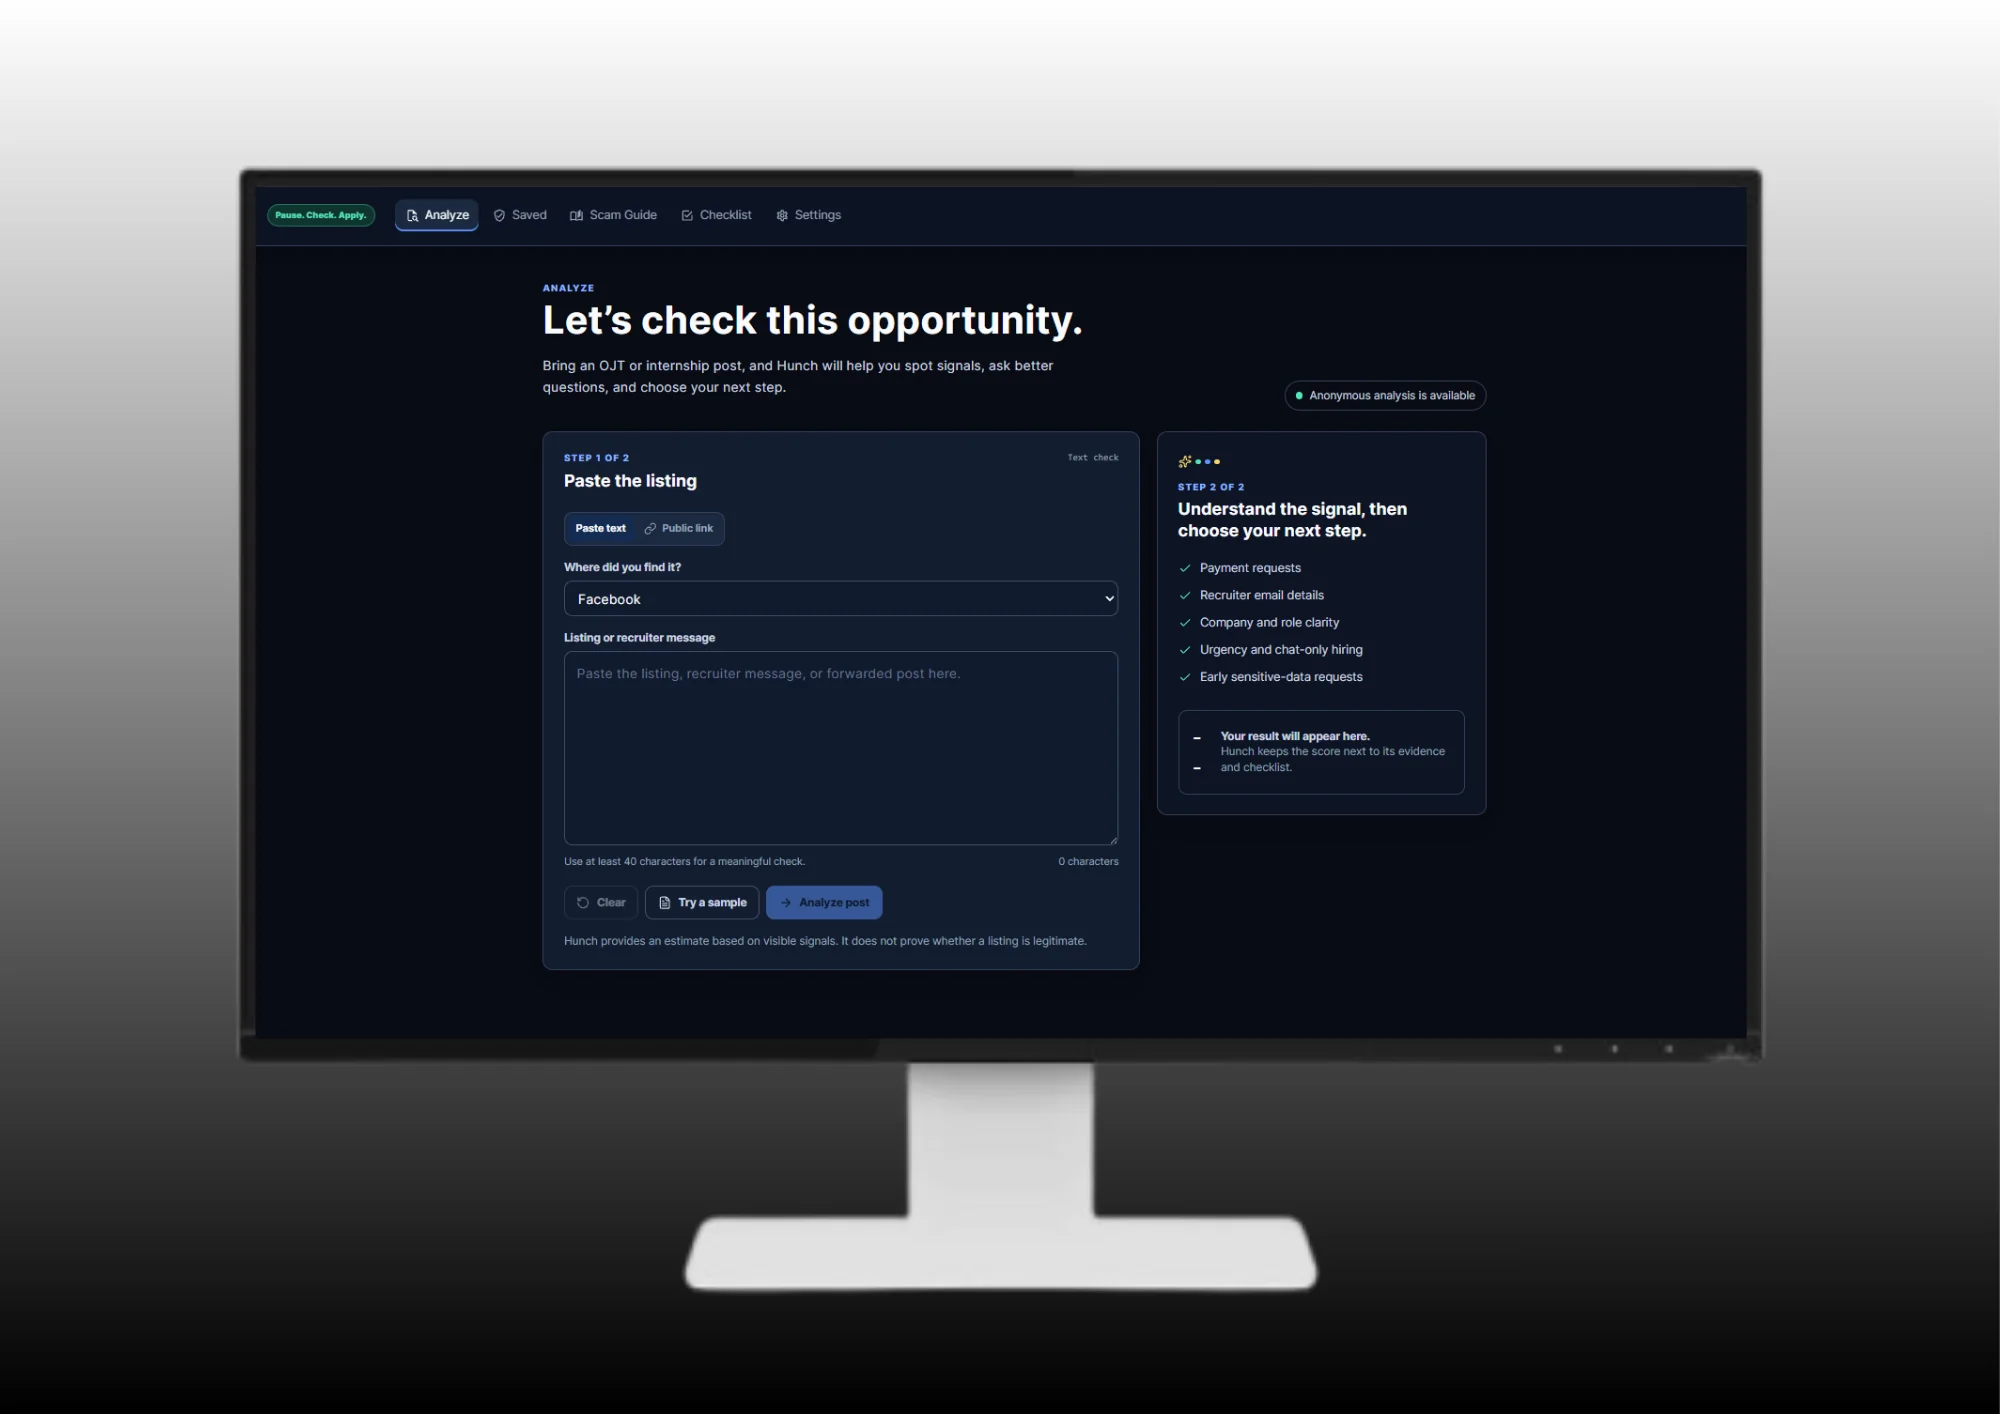
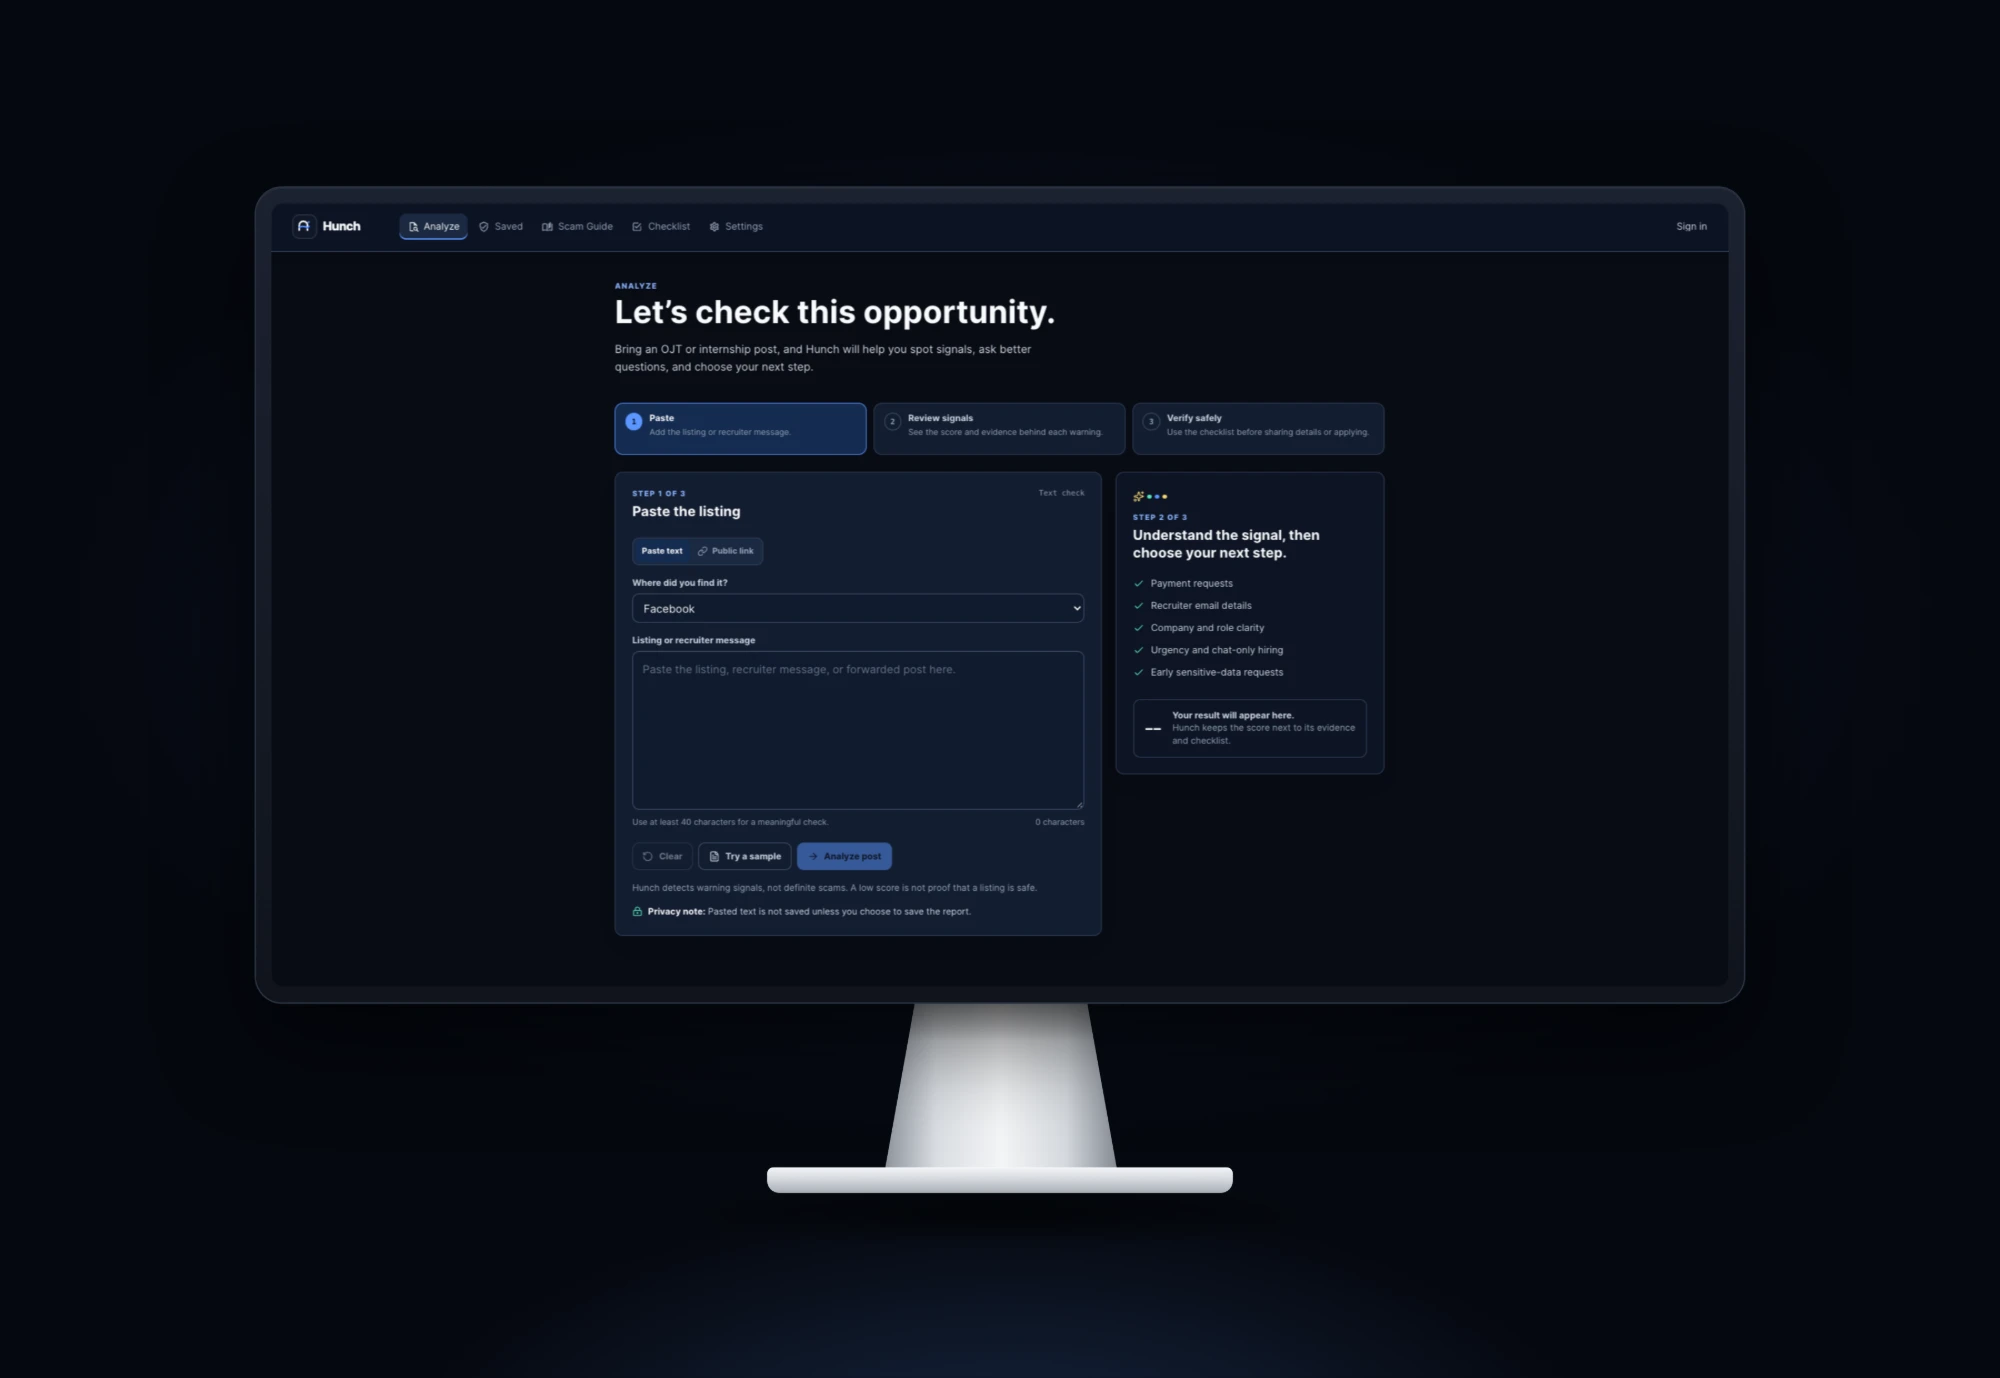
chore: update showcase images for Hunch, Spendly, Chainly, OncoSense and Hapag

diff --git a/src/data/portfolioData.ts b/src/data/portfolioData.ts
@@ -32,7 +32,7 @@ export const projectsData: Project[] = [
     detail:
       'Built with Flutter and Riverpod on Supabase Auth and PostgreSQL. Journey data is cached on the device and synced to Supabase, scheduled local notifications deliver daily health tips and reminders, and the GNews API powers a live cancer news feed.',
     stack: 'Flutter · Dart · Riverpod · Supabase',
-    image: '/projects/oncosense-showcase.png',
+    image: '/projects/oncosense-showcase.webp',
     highlights: [
       'Journey tracker for diagnosis, treatments with session counts and side effects, daily mood, pain and symptoms, and cancer-free milestones',
       'Prevention tips, self-check guides, and a cancer type library, backed by scheduled health tips and reminders',
@@ -51,7 +51,7 @@ export const projectsData: Project[] = [
     detail:
       'Logged rides add to each bike\'s total mileage, which is checked against built-in service intervals, from chain lubrication every 100 km to chain replacement around 2,500 km, to raise usage-based and time-based reminders. Built with Flutter, Riverpod, and Supabase, with Firebase Cloud Messaging and local notifications for service alerts.',
     stack: 'Flutter · Dart · Riverpod · Supabase · Firebase',
-    image: '/projects/chainly-showcase.webp',
+    image: '/projects/chainly-showcase.png',
     highlights: [
       'Usage-based (km) and time-based maintenance reminders driven by recommended service intervals',
       'Service history log with costs, categorized by chain, brakes, tires, and general service',
